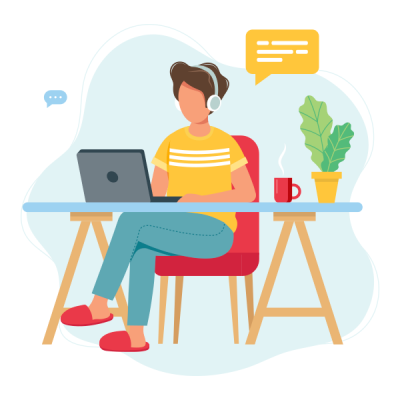
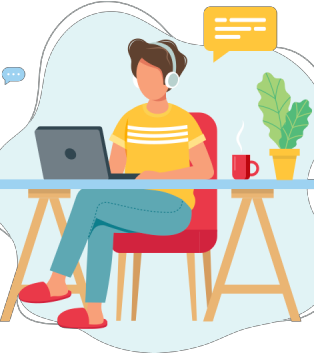
Add files via upload

diff --git a/style.css b/style.css
@@ -464,6 +464,7 @@ footer {
     body{
         overflow-x: hidden;
     }
+    
     #about .container,
     #services .container,
     #portifolio .container,
@@ -473,10 +474,17 @@ footer {
         margin: auto;
         justify-content: center;
     }
-
+    #contact .row{
+        display: block;
+    }
     
     header .header_content {
         grid-template-columns: 1fr 0.5fr;
+        display: inline;
+    }
+    header .header_content .content_text {
+        margin-top: 10rem;
+        margin-bottom: 0;
     }
     header .header_content .btn_primary{
         font-size: 13px;
@@ -488,9 +496,6 @@ footer {
     header .header_content p span,
     header .header_content .title {
         font-size: 16px;
-    }
-    header .header_content .image{
-        width: 288px;
     }
 
     header .header_content .social a i{

diff --git a/index.html b/index.html
@@ -165,7 +165,7 @@
                 </h2>
                 <hr>
                 <div class="row">
-                    <img src="images/agent.png" alt="contact png">
+                    <div class="image"><img src="images/agent.png" alt="contact png"></div>
                     <form action="https://formsubmit.co/contact@assemomar202.com" method="post">
                         <input type="text" name="Name" placeholder="Name" id="Name" required>
                         <input type="email" name="Email" placeholder="Email"  id="Email" required>
